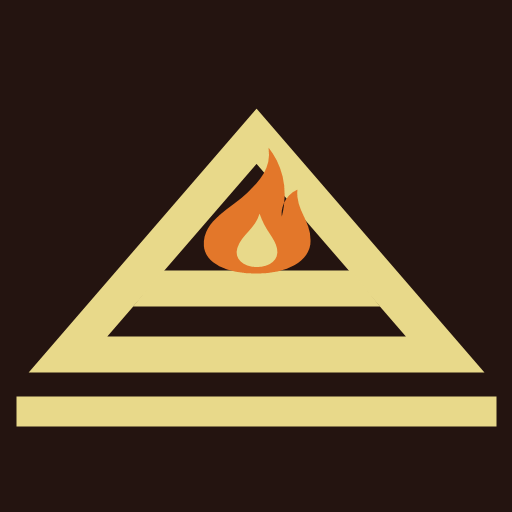
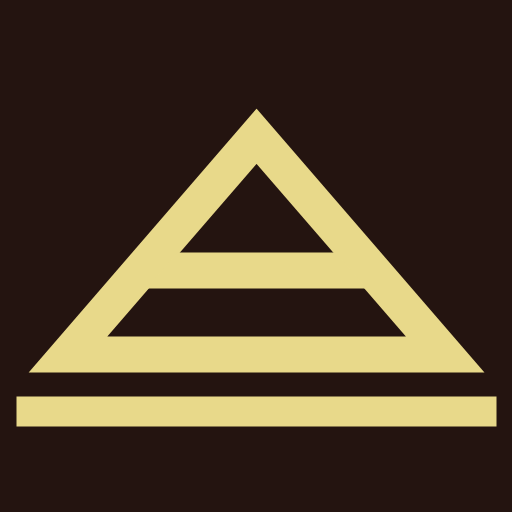
Back to the plain pediment A, no flame

Changed region(s): [[0.3125, 0.2812, 0.6875, 0.5312], [0.25, 0.5625, 0.75, 0.625]]

diff --git a/index.html b/index.html
@@ -26,8 +26,7 @@
    screenshots, red call to wishlist, dirt-brown studio footer.
    Georgia Bold is the game's own UI font; Archivo Narrow does the stencilled labels.
    The studio wordmark is Patua One, a Clarendon-style slab (Clarendon dates from 1845, the
-   decade Ashburn Hall was built); the mark is an A drawn as the hall's pediment, with an
-   ember-orange flame on the crossbar for the "burn". */
+   decade Ashburn Hall was built); the mark is an A drawn as the hall's pediment. */
 :root {
   --red: #b9301d;
   --red-deep: #8a2113;
@@ -39,7 +38,6 @@
   --dirt: #5c3a2e;
   --dirt-light: #8d5538;
   --ink: #241410;
-  --ember: #e3772a;
 
   --font-display: Georgia, "Times New Roman", Times, serif;
   --font-body: Georgia, "Times New Roman", Times, serif;
@@ -232,10 +230,8 @@ p { margin: 0; max-width: var(--measure); }
          Greek Revival gable of Ashburn Hall. Same geometry as assets/favicon.svg. -->
     <g id="mark-a">
       <path fill-rule="evenodd" d="M40 6 L78 50 L2 50 Z M40 15.2 L64.9 44 L15.1 44 Z"/>
-      <path d="M24.2 33 L55.8 33 L60.6 39 L19.4 39 Z"/>
+      <path d="M26.8 30 L53.2 30 L58.4 36 L21.6 36 Z"/>
       <rect x="0" y="54" width="80" height="5"/>
-      <path fill="#e3772a" d="M42 12.5 C 42.5 16, 40.5 18, 38.5 20 C 36 22.5, 31 24.5, 31.2 28.8 C 31.4 31.8, 35 33.5, 40 33.5 C 45 33.5, 49 31.5, 49 28 C 49 24.5, 46.5 23, 46.8 19.5 C 44.5 20.5, 44 23, 44.2 24 C 45.5 19, 44 15, 42 12.5 Z"/>
-      <path d="M40.5 23.5 C 39.8 26, 37.5 27, 36.8 29.2 C 36.2 31, 37.8 32.4, 40 32.4 C 42.2 32.4, 43.8 31.2, 43.4 29.3 C 43 27.4, 41.5 26.5, 40.5 23.5 Z"/>
     </g>
   </defs>
 </svg>
